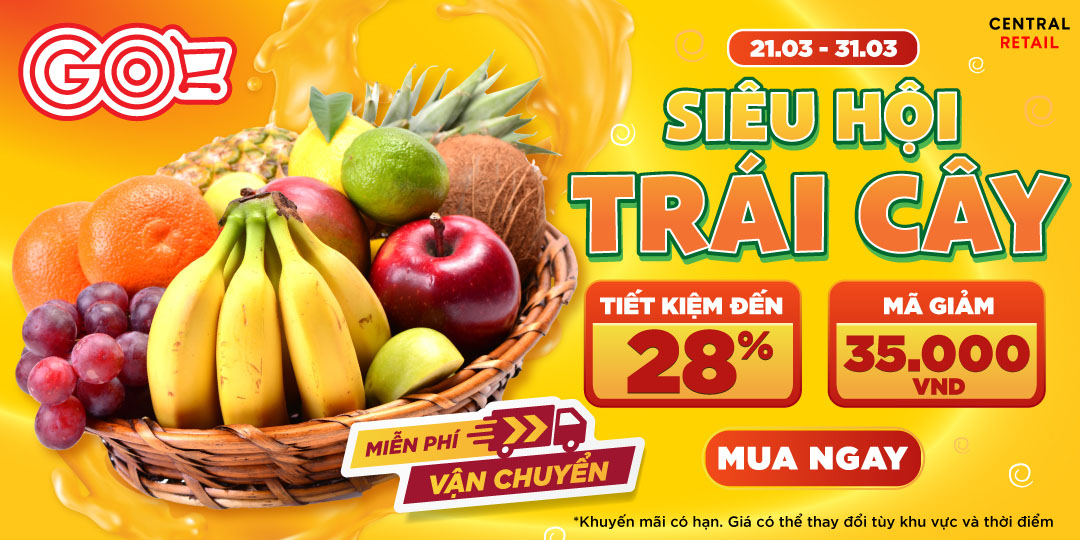
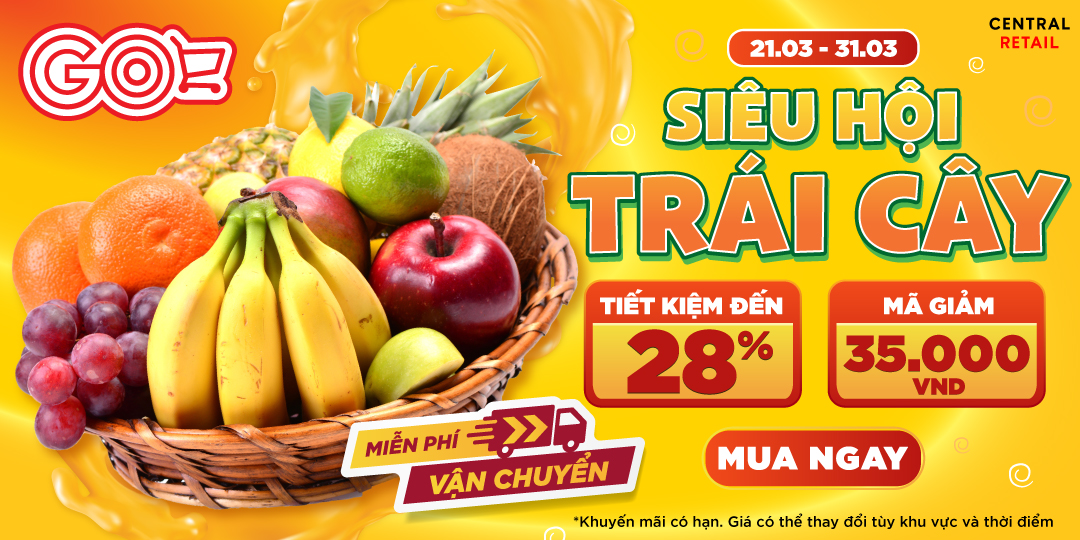
update code 2

Changed region(s): [[0.825, 0.1481, 0.8556, 0.1778]]

diff --git a/index.html b/index.html
@@ -69,7 +69,7 @@
             text-align: center;
             background: lightgreen;
             width:  100%;
-            height: 750px;
+            height: 450px;
             display: flex;
             justify-content: center;
             align-items: center;
@@ -77,7 +77,7 @@
         }
 
         .banner img {
-            width: 800%;
+            width: 200%;
             height: 100%;
             object-fit: cover;
         }
@@ -197,6 +197,7 @@
 
             .header-left a, .header-right a {
                 margin: 5px 0;
+                font-size: 16px; /* Tăng font size cho điện thoại */
             }
 
             nav ul {
@@ -205,7 +206,7 @@
             }
 
             .banner {
-                height: 1000px;
+                height: 200px; /* Giảm chiều cao banner cho điện thoại */
             }
 
             .categories {
@@ -216,6 +217,7 @@
             .categories button {
                 width: 100%;
                 margin: 5px 0;
+                font-size: 16px; /* Tăng font size cho điện thoại */
             }
 
             .products {
@@ -225,6 +227,23 @@
 
             .product {
                 width: 90%;
+            }
+
+            .product img {
+                height: 150px; /* Giảm chiều cao ảnh sản phẩm cho điện thoại */
+            }
+
+            .product h3 {
+                font-size: 20px; /* Tăng font size cho điện thoại */
+            }
+
+            .product p {
+                font-size: 18px; /* Tăng font size cho điện thoại */
+            }
+
+            .button {
+                font-size: 18px; /* Tăng font size cho điện thoại */
+                padding: 12px 24px; /* Tăng padding cho điện thoại */
             }
         }
     </style>
@@ -259,7 +278,7 @@
         </ul>
     </nav>
     <section class="banner">
-        <img src="anhsale.jpg" alt="Khuyến mãi lớn">
+        <img src="anhsale1.PNG" alt="Khuyến mãi lớn">
     </section>
     <section class="categories">
         <button>Trái Cây</button>
